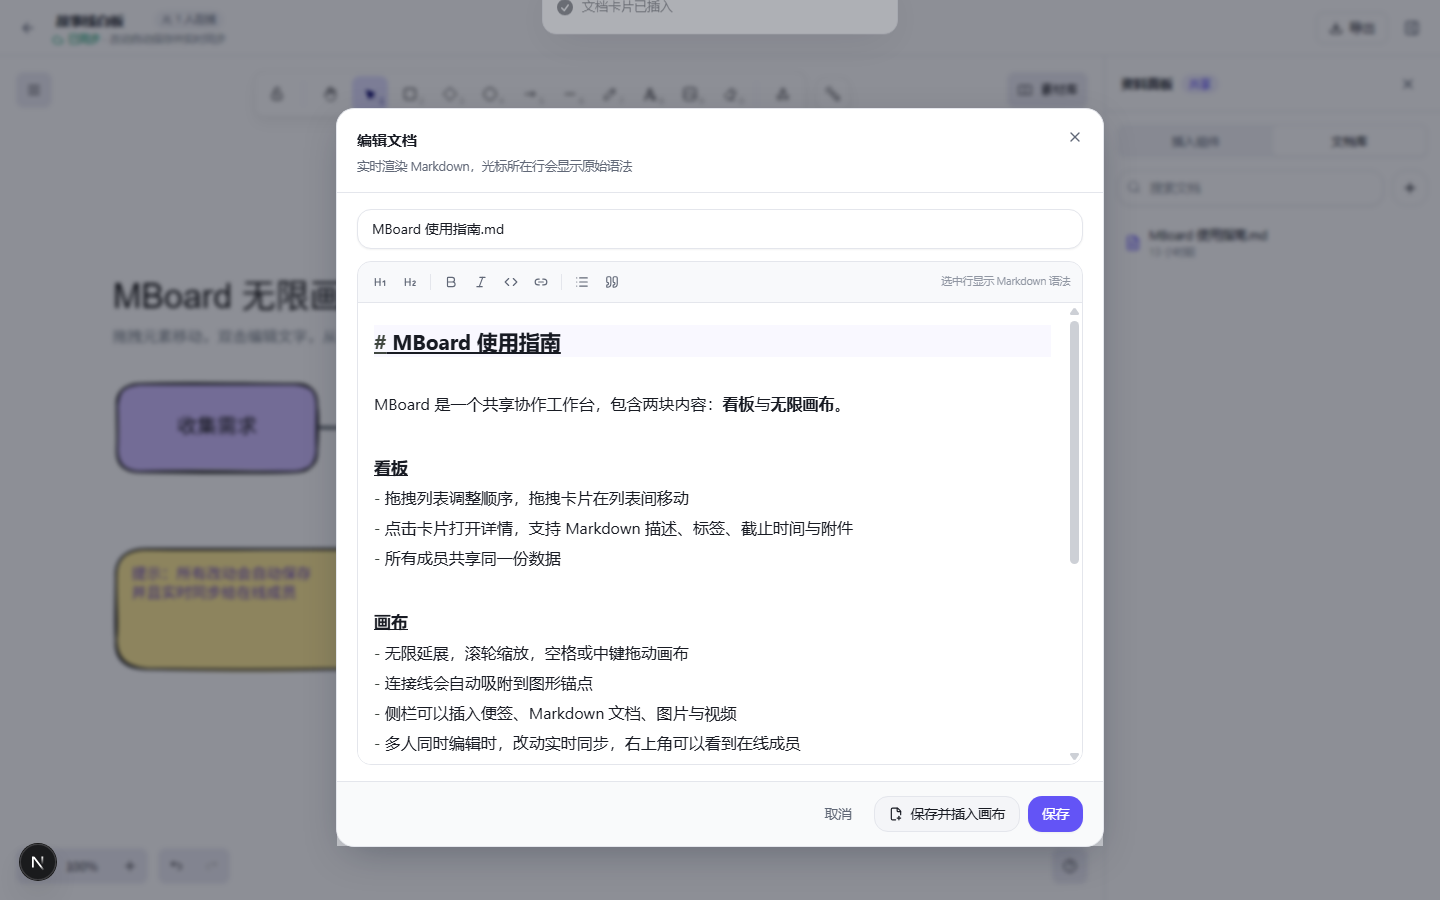
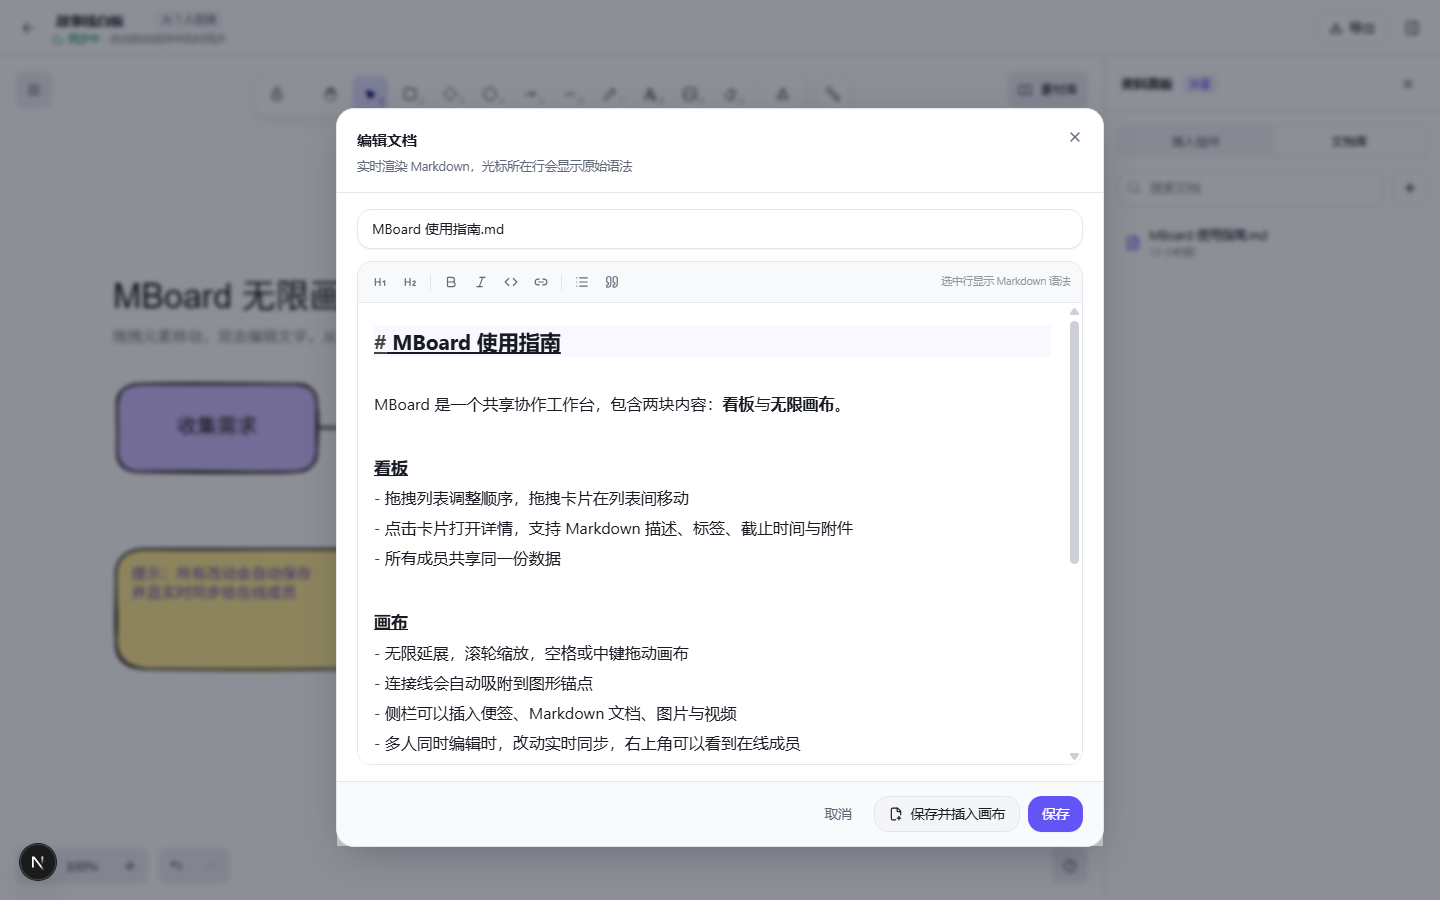
docs: 更新文档编辑、内联预览与表格编辑截图

Changed region(s): [[0.375, 0.0, 0.625, 0.0622]]

diff --git a/README.md b/README.md
@@ -47,6 +47,8 @@
 
 ![文档实时编辑](docs/screenshots/doc-editor.png)
 
+![选中文档自动预览](docs/screenshots/doc-inline.png)
+
 ![表格可视化编辑](docs/screenshots/table-editor.png)
 
 ### 实时协作
